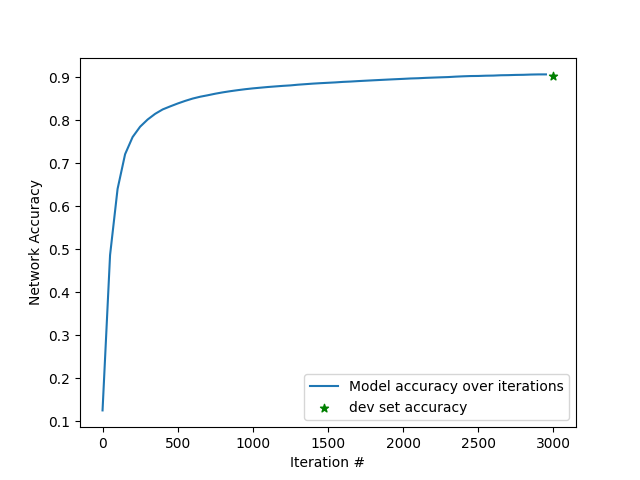
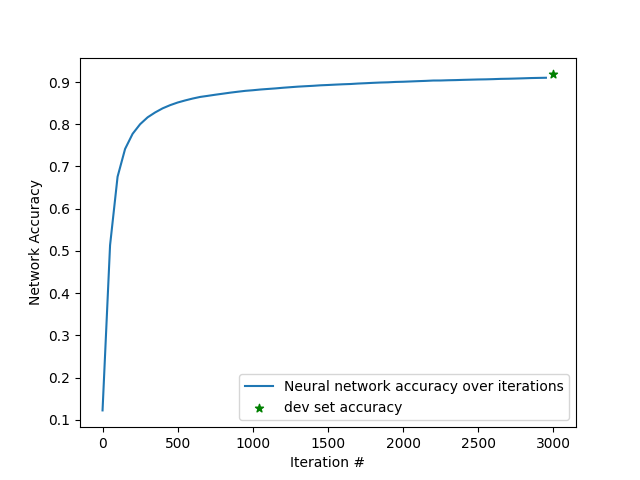
Fix typo in plot

diff --git a/main.py b/main.py
@@ -95,3 +95,10 @@ dev_predictions = make_predictions(X_dev, W1, b1, W2, b2)
 dev_accuracy = get_accuracy(dev_predictions, Y_dev)
 print(f"Dev accuracy: {dev_accuracy}")
 
+plt.plot(its, accs, label = "Neural network accuracy over iterations")
+plt.scatter(3000, dev_accuracy, color = "green", marker = '*', label = 'dev set accuracy')
+plt.xlabel("Iteration #")
+plt.ylabel("Network Accuracy")
+plt.legend()
+plt.savefig("accuracy_plot.png")
+plt.show()

diff --git a/README.md b/README.md
@@ -1,7 +1,7 @@
 # Neural Network From Scratch
 
 ## Overview
-This project served as my introduction into machine learning with a simple 2-layer neural network with NumPy and pandas, utilizing forward and back propagation and gradient descent. Using the classic MNIST dataset the network obtained consistent ~92% accuracy over multiple trials on randomized dev data it was not trained on.
+This project served as my introduction into machine learning with a simple 2-layer neural network with NumPy and pandas, utilizing forward and back propagation, gradient descent, and softmax. Using the classic MNIST dataset the network obtained consistent ~92% accuracy over multiple trials on randomized dev data it was not trained on.
 
 ![Accuracy plot](accuracy_plot.png)
 
